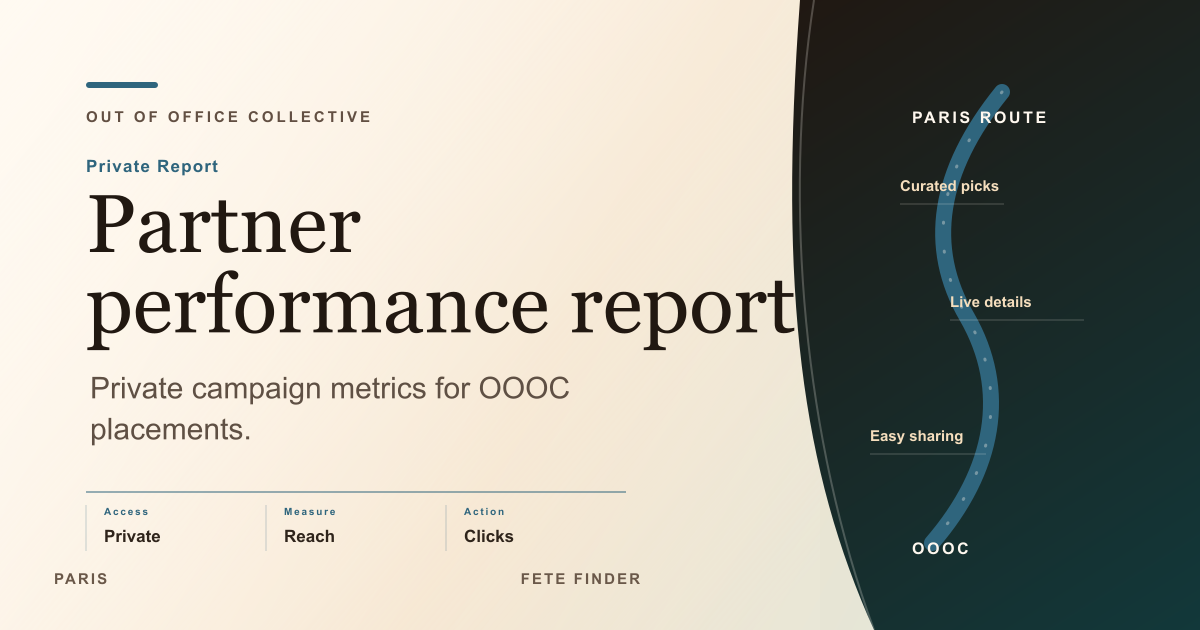
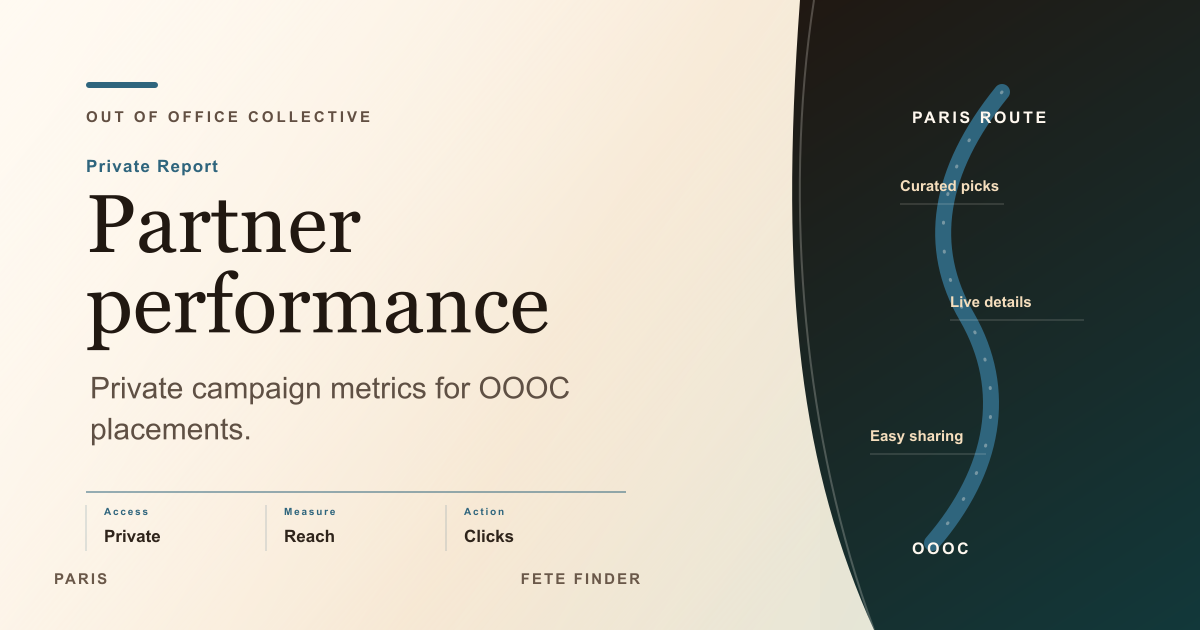
big changes

Changed region(s): [[0.4625, 0.4524, 0.6783, 0.573]]

diff --git a/app/api/og/route.tsx b/app/api/og/route.tsx
@@ -186,7 +186,7 @@ const STATIC_PRESET_CONTENT: Record<
 	},
 	"partner-performance-report": {
 		variant: "default",
-		title: "Partner Performance Report",
+		title: "Partner Performance",
 		subtitle: "Private campaign performance metrics",
 	},
 	"social-assets": {
@@ -307,6 +307,19 @@ const formatArrondissement = (
 	if (value === "unknown") return "Paris";
 	if (typeof value === "number") return `${value}e arrondissement`;
 	return formatLocationAreaLong(value);
+};
+
+const formatFooterLocation = (value: string): string => {
+	if (!value || value === "Paris") return "Paris";
+	if (/^\d+e arrondissement$/i.test(value)) return `${value} · Paris`;
+	if (value === "Greater Paris Area") return "Greater Paris";
+	return value;
+};
+
+const capitalizeGenre = (value: string): string => {
+	const trimmed = value.trim();
+	if (!trimmed) return "";
+	return `${trimmed[0]?.toUpperCase() ?? ""}${trimmed.slice(1)}`;
 };
 
 const buildEventSubtitle = (
@@ -516,7 +529,10 @@ const getSvgTitleLayout = (title: string, isEventCard: boolean) => {
 		if (lines.join(" ").replace(/\.\.\.$/, "") === title) {
 			return {
 				lines,
-				size: title.length <= 14 && lines.length === 1 ? 104 : candidate.size,
+				size:
+					!isEventCard && title.length <= 14 && lines.length === 1
+						? 104
+						: candidate.size,
 				lineHeight: candidate.size * 0.98,
 			};
 		}
@@ -609,13 +625,14 @@ const renderOGSvg = (content: {
 	const titleLayout = getSvgTitleLayout(content.title, content.isEventCard);
 	const titleTop = content.isEventCard
 		? titleLayout.lines.length >= 3
-			? 250
+			? 242
 			: titleLayout.lines.length === 2
-				? 260
-				: 264
+				? 248
+				: 252
 		: titleLayout.lines.length === 1
 			? 262
 			: 252;
+	const labelY = content.isEventCard ? 164 : 174;
 	const titleBottom =
 		titleTop + (titleLayout.lines.length - 1) * titleLayout.lineHeight;
 	const subtitleTop = titleBottom + (content.isEventCard ? 54 : 66);
@@ -657,8 +674,8 @@ const renderOGSvg = (content: {
 			.metaLabel { font: 700 13px "Degular", sans-serif; letter-spacing: 1.8px; fill: ${content.accent}; text-transform: uppercase; }
 			.meta { font: 700 22px "Degular", sans-serif; fill: #2f241b; }
 			.footer { font: 700 18px "Degular", sans-serif; letter-spacing: 2.1px; fill: #6a5849; text-transform: uppercase; }
-			.railText { font: 700 19px "Degular", sans-serif; letter-spacing: 2.6px; fill: #fff8ef; }
-			.railSmall { font: 700 18px "Degular", sans-serif; fill: #f5debd; }
+			.railText { font: 700 16px "Degular", sans-serif; letter-spacing: 2.6px; fill: #fff8ef; stroke: #fff8ef; stroke-width: 0.35px; paint-order: stroke fill; }
+			.railSmall { font: 700 15px "Degular", sans-serif; fill: #f5debd; stroke: #f5debd; stroke-width: 0.3px; paint-order: stroke fill; }
 		</style>
 	</defs>
 	<rect width="1200" height="630" fill="url(#bg)"/>
@@ -669,7 +686,7 @@ const renderOGSvg = (content: {
 	<path d="M1002 92 C938 171 926 247 967 317 C1009 390 995 470 932 543" stroke="#fff8ef" stroke-opacity="0.34" stroke-width="3" stroke-linecap="round" stroke-dasharray="1 28"/>
 	<rect x="86" y="82" width="72" height="6" rx="3" fill="${content.accent}"/>
 	<text x="86" y="122" class="eyebrow" font-size="19">OUT OF OFFICE COLLECTIVE</text>
-	<text x="86" y="174" class="label" font-size="22">${escapeXml(content.label)}</text>
+	<text x="86" y="${labelY}" class="label" font-size="22">${escapeXml(content.label)}</text>
 	${renderSvgTextLines({
 		lines: titleLayout.lines,
 		x: 86,
@@ -690,14 +707,14 @@ const renderOGSvg = (content: {
 	<text x="54" y="584" class="footer">${escapeXml(content.footerLocation)}</text>
 	<text x="640" y="584" class="footer" text-anchor="end">FETE FINDER</text>
 	${eventCountChip}
-	<text x="912" y="123" class="railText">PARIS ROUTE</text>
-	<text x="912" y="554" class="railText">OOOC</text>
+	<text x="912" y="123" class="railText" font-size="16">PARIS ROUTE</text>
+	<text x="912" y="554" class="railText" font-size="16">OOOC</text>
 	<line x1="900" y1="204" x2="1004" y2="204" stroke="#fff8ef" stroke-opacity="0.24"/>
-	<text x="900" y="191" class="railSmall">Curated picks</text>
+	<text x="900" y="191" class="railSmall" font-size="15">Curated picks</text>
 	<line x1="950" y1="320" x2="1084" y2="320" stroke="#fff8ef" stroke-opacity="0.24"/>
-	<text x="950" y="307" class="railSmall">Live details</text>
+	<text x="950" y="307" class="railSmall" font-size="15">Live details</text>
 	<line x1="870" y1="454" x2="986" y2="454" stroke="#fff8ef" stroke-opacity="0.24"/>
-	<text x="870" y="441" class="railSmall">Easy sharing</text>
+	<text x="870" y="441" class="railSmall" font-size="15">Easy sharing</text>
 </svg>`;
 };
 
@@ -756,17 +773,14 @@ export async function GET(request: NextRequest) {
 		const subtitle = sanitizeText(content.subtitle, defaultText.subtitle);
 		const svgPalette = THEMES[variant];
 		const svgIsEventCard = variant === "event-modal";
-		const svgFooterLocation =
-			arrondissement && arrondissement !== "Paris"
-				? `${arrondissement} · Paris`
-				: "Paris";
+		const svgFooterLocation = formatFooterLocation(arrondissement);
 		const svgLabel =
 			title === "Shared Fête Finder Plan"
 				? "Shared Plan"
 				: svgIsEventCard
 					? "Event Pick"
 					: svgPalette.label;
-		const tagList = genres.slice(0, 3).join(" · ");
+		const tagList = genres.slice(0, 3).map(capitalizeGenre).join(" · ");
 		const svgFacts: MetaFact[] = svgIsEventCard
 			? [
 					{ label: "Date", value: date },

diff --git a/app/admin/config.ts b/app/admin/config.ts
@@ -196,20 +196,20 @@ export const ADMIN_ROUTES: AdminRouteConfig[] = [
 		path: "/admin/insights",
 		sections: [
 			{
-				id: "event-engagement-stats",
-				label: "Discovery & Event Performance",
-				description: "Discovery behavior, event opens, and partner actions.",
-				path: "/admin/insights#event-engagement-stats",
-				moduleKey: "insights",
-				keywords: ["analytics", "engagement", "discovery", "roi"],
-			},
-			{
 				id: "collected-users",
 				label: "Collected User Emails",
 				description: "Manage, import, export, and tidy collected user records.",
 				path: "/admin/insights#collected-users",
 				moduleKey: "insights",
 				keywords: ["users", "emails", "export", "import", "csv"],
+			},
+			{
+				id: "event-engagement-stats",
+				label: "Discovery & Event Performance",
+				description: "Discovery behavior, event opens, and partner actions.",
+				path: "/admin/insights#event-engagement-stats",
+				moduleKey: "insights",
+				keywords: ["analytics", "engagement", "discovery", "roi"],
 			},
 		],
 	},

diff --git a/app/admin/components/EmailCollectionCard.tsx b/app/admin/components/EmailCollectionCard.tsx
@@ -885,6 +885,14 @@ export const EmailCollectionCard = ({
 		}
 	};
 
+	const handleCloseProfile = () => {
+		profileRequestIdRef.current += 1;
+		setProfileEmail(null);
+		setProfile(null);
+		setProfileStatus("");
+		setIsProfileLoading(false);
+	};
+
 	return (
 		<Card className="ooo-admin-card min-w-0 overflow-hidden">
 			<CardHeader className="space-y-3">
@@ -1401,9 +1409,7 @@ export const EmailCollectionCard = ({
 				open={Boolean(profileEmail)}
 				onOpenChange={(open) => {
 					if (!open) {
-						setProfileEmail(null);
-						setProfile(null);
-						setProfileStatus("");
+						handleCloseProfile();
 					}
 				}}
 			>

diff --git a/app/admin/insights/InsightsDashboardClient.tsx b/app/admin/insights/InsightsDashboardClient.tsx
@@ -32,6 +32,11 @@ const INSIGHTS_TABS: Array<{
 	description: string;
 }> = [
 	{
+		key: "audience",
+		label: "Audience",
+		description: "Segments, exports, collected users.",
+	},
+	{
 		key: "traffic",
 		label: "Traffic",
 		description: "Visitors, sources, campaigns, landing pages.",
@@ -55,11 +60,6 @@ const INSIGHTS_TABS: Array<{
 		key: "events",
 		label: "Events",
 		description: "Event attention, intent, funnel, quality.",
-	},
-	{
-		key: "audience",
-		label: "Audience",
-		description: "Segments, exports, collected users.",
 	},
 	{
 		key: "advanced",
@@ -89,7 +89,7 @@ export function InsightsDashboardClient({
 				? (initialEmailsResult.analytics ?? null)
 				: null,
 		);
-	const [activeTab, setActiveTab] = useState<InsightsTab>("traffic");
+	const [activeTab, setActiveTab] = useState<InsightsTab>("audience");
 
 	const loadEmails = useCallback(async () => {
 		const result = await getCollectedEmails();